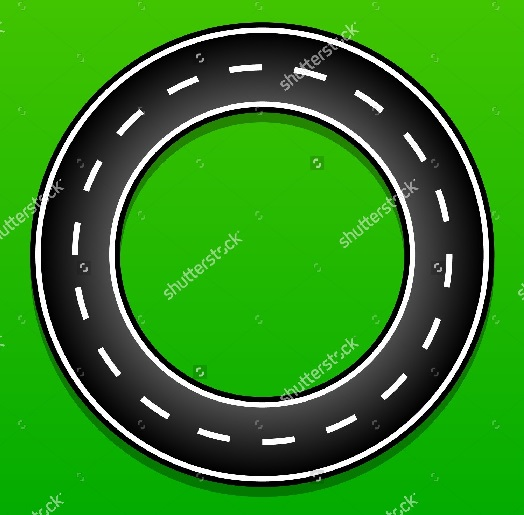
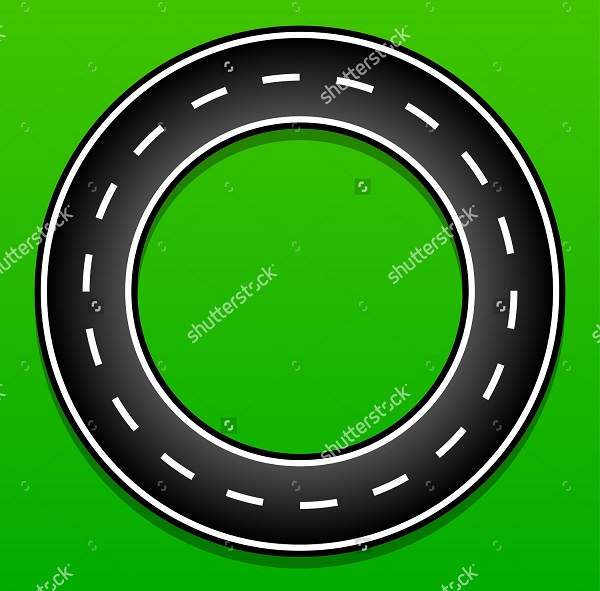
Sprites, Tyre class.

diff --git a/coursework/src/game.cpp b/coursework/src/game.cpp
@@ -9,9 +9,14 @@ using namespace std;
 
 Game::Game()
 {
-
 	
 	car = Car(50, 310, 0 * 3.14159 / 180);
+
+	sf::Texture tyreTexture;
+	tyreTexture.loadFromFile("assets/img/tyre.jpg");
+
+	tyre = Tyre(350, 300, 0, tyreTexture);
+	obstacles.push_back(&tyre);
 	
 	//obstacles.push_back(new OBB(350, 300, 50, 50, 0 * 3.14159 / 180));
 
@@ -28,7 +33,7 @@ Game::Game()
 	//(obstacles.back())->setMass(250);
 
 	rapidxml::xml_document<> doc;
-	ifstream file(".\\assets\\text\\obstacles.xml");
+	ifstream file(".\\assets\\xml\\obstacles.xml");
 	stringstream buffer;
 	buffer << file.rdbuf();
 	file.close();
@@ -37,9 +42,9 @@ Game::Game()
 	rapidxml::xml_node<>* pRoot = doc.first_node();
 	for (rapidxml::xml_node<> *pNode = pRoot->first_node("collidable"); pNode; pNode = pNode->next_sibling())
 	{
-		Collidable * newObstacle = CollidableFactory::NewCollidable(pNode);
-		if (newObstacle != NULL)
-			obstacles.push_back(newObstacle);
+		//Collidable * newObstacle = CollidableFactory::NewCollidable(pNode);
+		//if (newObstacle != NULL)
+			//obstacles.push_back(newObstacle);
 	}
 
 }
@@ -47,7 +52,7 @@ Game::Game()
 void Game::draw(RenderTarget &target, RenderStates states) const
 {
 	target.draw(car);
-	
+	//target.draw(tyre);
 	for (auto it = obstacles.begin(); it != obstacles.end(); ++it)
 	{
 		target.draw(**it);

diff --git a/coursework/src/main.cpp b/coursework/src/main.cpp
@@ -21,6 +21,9 @@ int main()
 	
 	Game game;
 
+	sf::Texture tyreTexture;
+	tyreTexture.loadFromFile("assets/img/tyre.jpg");
+	game.tyre.m_sprite.setTexture(tyreTexture);
 
 	sf::Texture texture;
 	texture.loadFromFile("assets/img/track_small.jpg");
@@ -32,17 +35,12 @@ int main()
 	sprite.scale(2, 2);
 	sprite.setColor(sf::Color(255, 255, 255, 200));
 	sprite.setPosition(0, 0);
-	// Draw it
 	
 	sf::View mainView(sf::FloatRect(0, 0, window.getSize().x, window.getSize().y));
 	mainView.setViewport(sf::FloatRect(0, 0, 1, 1));
 
 	sf::View miniView(sf::FloatRect(0, 0, 1500, 1600));
 	miniView.setViewport(sf::FloatRect(0.8, 0, 0.2, 0.2));
-	
-	
-	
-
 	
 	Clock clock;
 	
@@ -66,17 +64,17 @@ int main()
 			clock.restart();
 		}
 
-		window.clear(Color::Black);
+		window.clear(Color::Magenta);
 
-		//window.setView(mainView);
+		window.setView(mainView);
 		//mainView.setCenter(game.car.getPosition().getX(), game.car.getPosition().getY());
 		//window.draw(sprite);
 		window.draw(game);
 
-		/*window.setView(miniView);
-		window.draw(sprite);
-		window.draw(game);
-		*/
+		//window.setView(miniView);
+		//window.draw(sprite);
+		//window.draw(game);
+		
 
 		window.display();
 	}

diff --git a/coursework/src/collidable.cpp b/coursework/src/collidable.cpp
@@ -23,6 +23,7 @@ Collidable::Collidable()
 
 void Collidable::draw(sf::RenderTarget& target, sf::RenderStates states) const
 {
+	target.draw(m_sprite, states);
 	target.draw(m_vaPoints, states);
 }
 
@@ -30,7 +31,7 @@ void Collidable::update(float elapsed)
 {
 	Vector2D<double> friction = m_fvVelocity * m_fFrictionCoefficient;
 	
-	m_fvAcceleration = (m_fvThrust - friction) * m_fInverseMass;
+	m_fvAcceleration = (m_fvThrust - friction);
 	m_fvVelocity += m_fvAcceleration * elapsed;
 
 	m_fAngularVelocity += m_fTorque * m_fInverseMomentOfInertia * elapsed;
@@ -39,6 +40,8 @@ void Collidable::update(float elapsed)
 
 	m_fOrientation += m_fAngularVelocity * elapsed;
 
+	m_sprite.setPosition(m_fvPosition.getX(), m_fvPosition.getY());
+	//m_sprite.setRotation(m_sprite.getRotation() + 1);
 	updatePoints();
 }
 
@@ -165,3 +168,7 @@ void Collidable::setRadius(double fRadius)
 		m_fRadius = 1;
 }
 
+void Collidable::setTexture(sf::Texture texture)
+{
+	
+}

diff --git a/coursework/src/collidableFactory.cpp b/coursework/src/collidableFactory.cpp
@@ -2,6 +2,11 @@
 
 Collidable * CollidableFactory::NewCollidable(const rapidxml::xml_node<>* pNode)
 {
+
+	sf::Texture tyreTexture;
+	tyreTexture.loadFromFile("assets/img/tyre.jpg");
+
+
 	string sCollidableType = pNode->first_attribute("type")->value();
 
 	if (sCollidableType == "obb")
@@ -22,6 +27,15 @@ Collidable * CollidableFactory::NewCollidable(const rapidxml::xml_node<>* pNode)
 		double fOrientation = atof(pNode->first_attribute("orientation")->value());
 
 		return new Circle(fPosX, fPosY, fRadius, fOrientation);
+	}
+	if (sCollidableType == "tyre")
+	{
+		double fPosX = atof(pNode->first_attribute("posX")->value());
+		double fPosY = atof(pNode->first_attribute("posY")->value());
+		double fOrientation = atof(pNode->first_attribute("orientation")->value());
+		Circle * newCircle = new Circle(fPosX, fPosY, 20, fOrientation);
+		newCircle->setTexture(tyreTexture);
+		return newCircle;
 	}
 	return NULL;
 

diff --git a/coursework/src/tyre.cpp b/coursework/src/tyre.cpp
@@ -1,0 +1,27 @@
+#include "tyre.h"
+#include "vector2D.h"
+
+
+Tyre::Tyre(double fPosX, double fPosY, double fOrientation, sf::Texture& texture)
+{
+	m_fvPosition = Vector2D<double>(fPosX, fPosY);
+	m_fRadius = 25;
+	m_fOrientation = fOrientation;
+	m_fInverseMass = 1.0 / (25.0 * 2.0);
+	
+	m_sprite.setTexture(texture);
+	m_sprite.setOrigin(getRadius(), getRadius());
+	m_sprite.setTextureRect(sf::IntRect(0, 0, getRadius() * 2, getRadius() * 2));
+	m_sprite.scale(1, 1);
+	m_sprite.setColor(sf::Color(255, 255, 255, 128));
+	m_sprite.setPosition(getPosition().getX(), getPosition().getY());
+	
+}
+
+Tyre::Tyre()
+{
+}
+
+Tyre::~Tyre()
+{
+}

diff --git a/coursework/include/collidable.h b/coursework/include/collidable.h
@@ -49,6 +49,8 @@ protected:
 	void resolveCollision(Collidable * collidable, Vector2D<double> * collisionNormal, double overlap);
 
 public:
+	sf::Sprite m_sprite;
+	
 	Collidable();
 	void update(float elapsed);
 	virtual void updatePoints() {};
@@ -78,6 +80,8 @@ public:
 	void setFrictionCoefficient(double fFrictionCoefficient);
 	void setElasticity(double fRestitution);
 	void setRadius(double fRadius);
+
+	void setTexture(sf::Texture texture);
 private:
 	virtual void draw(sf::RenderTarget& target, sf::RenderStates states) const;
 };

diff --git a/coursework/include/game.h b/coursework/include/game.h
@@ -9,6 +9,7 @@
 #include "collidable.h"
 #include "collidableFactory.h"
 #include "car.h"
+#include "tyre.h"
 #include "vector2D.h"
 #include "rapidxml.hpp"
 #include "rapidxml_iterators.hpp"
@@ -28,6 +29,7 @@ class Game : public Drawable
 {
 public:
 	Car car;
+	Tyre tyre;
 	//std::array<Collidable*, 5> obstacles;
 	std::vector<Collidable*> obstacles;
 	Game(); //!< Constructor

diff --git a/coursework/include/tyre.h b/coursework/include/tyre.h
@@ -1,0 +1,13 @@
+#pragma once
+
+#include <SFML\Graphics.hpp>
+#include "circle.h"
+
+class Tyre : public Circle
+{
+public:
+	Tyre(double fPosX, double fPosY, double fOrientation, sf::Texture& texture);
+	Tyre();
+	~Tyre();
+};
+

diff --git a/coursework/src/circle.cpp b/coursework/src/circle.cpp
@@ -41,7 +41,6 @@ void Circle::checkCollision(Circle * circle)
 
 void Circle::checkCollision(OBB * obb)
 {
-	
 	if (!broadCollisionCheck(obb)) return;
 
 	Vector2D<double> fvCentreDistance = m_fvPosition - obb->getPosition();

diff --git a/coursework/include/collidableFactory.h b/coursework/include/collidableFactory.h
@@ -4,6 +4,7 @@
 #include <collidable.h>
 #include <obb.h>
 #include <circle.h>
+#include <SFML\Graphics.hpp>
 #include "rapidxml.hpp"
 #include "rapidxml_iterators.hpp"
 #include "rapidxml_print.hpp"
